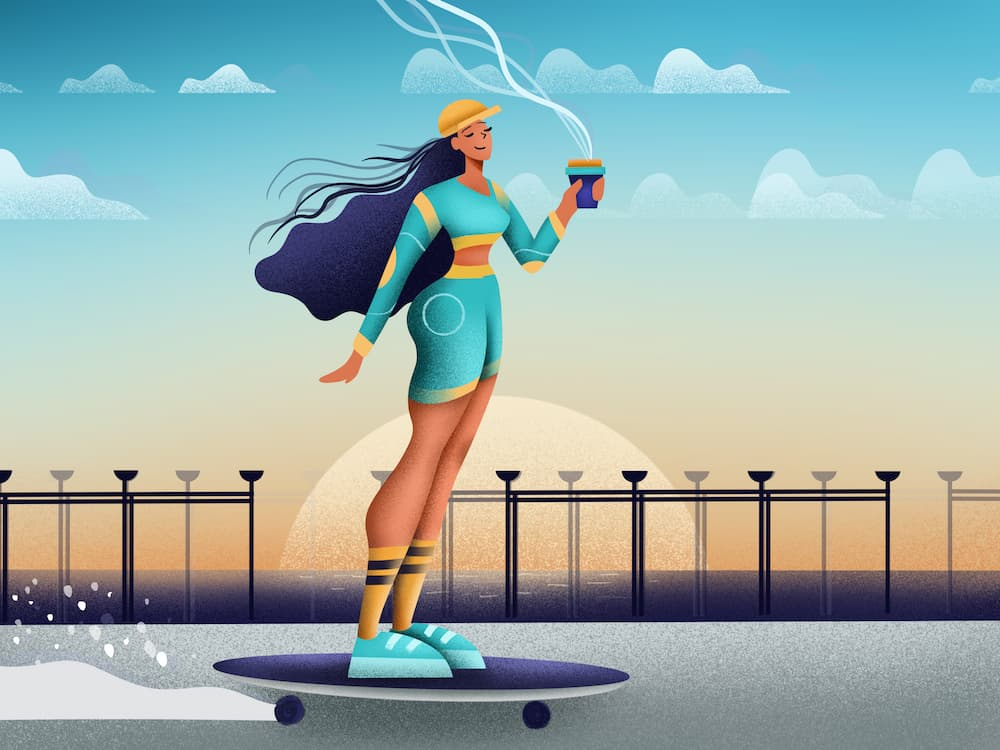
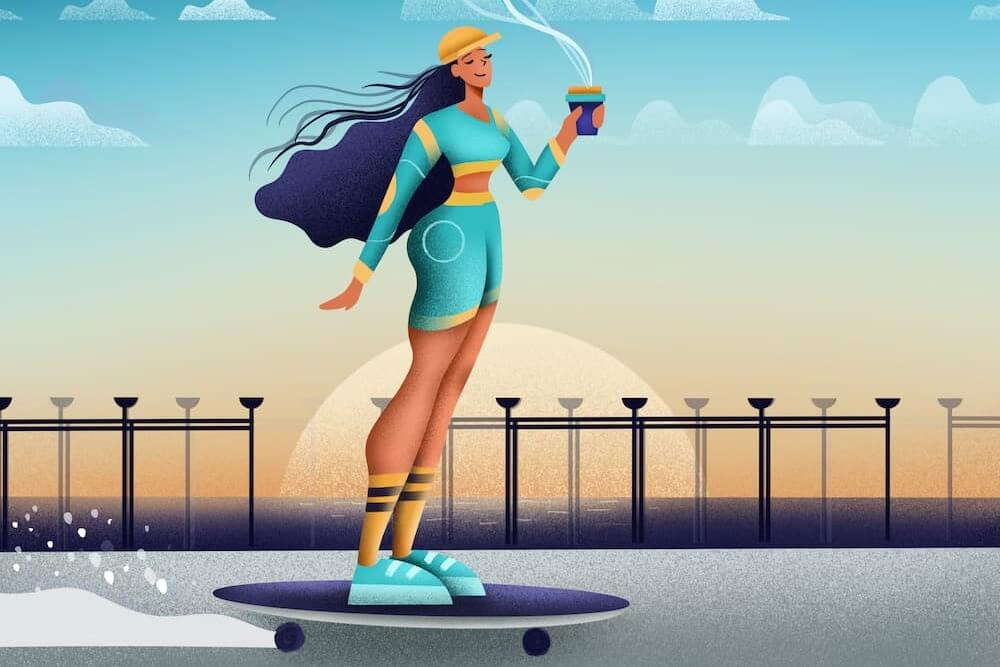
Added - more reasons, meta tags

diff --git a/index.html b/index.html
@@ -3,28 +3,45 @@
 	<head>
 		<meta charset="utf-8">
 		<meta http-equiv="X-UA-Compatible" content="IE=edge">
-		<meta name="viewport" content="width=device-width,initial-scale=1,user-scalable=0">
+		<meta name="viewport" content="width=device-width,initial-scale=1">
 		<link rel="icon" href="favicon.ico">
+		<link rel="icon" type="image/png" sizes="32x32" href="images/favicon-32x32.png">
+		<link rel="icon" type="image/png" sizes="16x16" href="images/favicon-16x16.png">
 		<title>Why Barcelona</title>
+		<meta name="description" content="Reasons to visit or live in Barcelona">
+		<meta property="og:type" content="website">
+		<meta property="og:url" content="https://why.barcelona">
+		<meta property="og:title" content="Why Barcelona">
+		<meta property="og:description" content="Reasons to visit or live in Barcelona">
+		<meta property="og:image" content="https://why.barcelona/images/barcelona.jpg">
+
 		<link rel="stylesheet" href="https://cdn.jsdelivr.net/npm/@layered/layered-design@1.5.6/dist/layered.css" integrity="sha256-NT1Sf9WGtlz9UD0mXpHB58GH3SpmFj9UEg99lTRW4YE=" crossorigin="anonymous">
 
 		<style type="text/css">
 		.reason {
 			border-radius: 1rem;
 			background-size: cover;
-			aspect-ratio: 16 / 9;
+			background-position: center center;
+			aspect-ratio: 3 / 2;
 			padding: 2rem;
 			text-align: center;
 		}
+		.reason.a16x9 {
+			aspect-ratio: 16 / 9;
+		}
 		.reason h3 {
 			color: #333;
-			text-shadow: 0px 0px 5px rgba(255, 255, 255, 0.5);
+			text-shadow: 0px 0px 5px rgba(255, 255, 255, 0.3);
 			margin: 0 !important;
 			font-size: 2rem;
 		}
 		.reason.dark h3 {
 			color: #f0f0f0;
-			text-shadow: 0px 0px 5px rgba(0, 0, 0, 0.5);
+			text-shadow: 0px 0px 5px rgba(0, 0, 0, 0.3);
+		}
+		.reason p {
+			color: #444;
+			font-size: 1.4rem;
 		}
 		.reason a {
 			color: #fff;
@@ -39,30 +56,33 @@
 
 			<div class="text-center py-6">
 				<h1>Why Barcelona</h1>
-				<h2>Reasons to visit or live in Barcelona</h2>
+				<h3>Reasons to visit or live in Barcelona</h3>
 			</div>
 
-			<div class="row">
+			<div class="row mb-6">
 				<div class="col-lg-6 my-3">
-					<div class="reason d-flex justify-content-center align-items-center" style="background-image: url(images/architecture.jpg)">
-						<h3>Spanish architecture</h3>
+					<div class="reason d-flex justify-content-center" style="background-image: url(images/architecture.jpg)">
+						<h3>For the spanish architecture</h3>
 					</div>
 				</div>
 				<div class="col-lg-6 my-3">
-					<div class="reason d-flex justify-content-center align-items-center" style="background-image: url(images/skate.jpg)">
-						<h3>You can skate everywhere</h3>
+					<div class="reason d-flex justify-content-center" style="background-image: url(images/beach.jpg)">
+						<h3>Can go on the beach at least 300 days of the year</h3>
 					</div>
 				</div>
 				<div class="col-12 my-3">
-					<div class="reason d-flex justify-content-center align-items-center" style="background-image: url(images/gaudi.jpg)">
-						<h3>Designed by Gaudi</h3>
-					</div>
+					<a href="https://www.barcelona.com/barcelona_city_guide/gaudi_barcelona" target="_blank" class="reason a16x9 d-flex justify-content-center align-items-center" style="background-image: url(images/gaudi.jpg)">
+						<div>
+							<h3>Designed by Gaudi</h3>
+							<p>Visit Sagrada Familia, Casa Milà, Park Güell ❐</p>
+						</div>
+					</a>
 				</div>
 				<div class="col-lg-6 my-3">
 					<div class="reason dark d-flex justify-content-center align-items-center" style="background-image: url(images/foods.jpg)">
 						<div>
 							<h3>Has restaurants like</h3>
-							<p class="lead">
+							<p>
 								<a href="https://copaseticbarcelona.com/" target="_blank">Copasetic</a>,
 								<a href="https://www.instagram.com/fismuler/" target="_blank">Fismuler</a>,
 								<a href="https://kokukitchen.es/" target="_blank">Koku Kitchen</a>
@@ -71,9 +91,66 @@
 					</div>
 				</div>
 				<div class="col-lg-6 my-3">
-					<div class="reason d-flex justify-content-center align-items-center" style="background-image: url(images/beach.jpg)">
-						<h3>Can go on the beach 300 days of the year</h3>
+					<div class="reason dark d-flex justify-content-center" style="background-image: url(images/cycling.jpg)">
+						<h3>It's the starting poing of many scenic cycling routes</h3>
 					</div>
+				</div>
+				<div class="col-12 my-3">
+					<div class="reason a16x9 d-flex justify-content-center align-items-center" style="background-image: url(images/work.jpg)">
+						<div>
+							<h3>Many popular companies are located in Barcelona:</h3>
+							<p>
+								<a href="https://n26.com/" target="_blank">N26</a>,
+								<a href="https://glovoapp.com/" target="_blank">Glovo</a>,
+								<a href="https://www.skyscanner.es/" target="_blank">SkyScanner</a>
+							</p>
+						</div>
+					</div>
+				</div>
+				<div class="col-lg-6 my-3">
+					<div class="reason d-flex justify-content-center align-items-center" style="background-image: url(images/skate.jpg)">
+						<h3>You can skate anywhere</h3>
+					</div>
+				</div>
+				<div class="col-lg-6 my-3">
+					<div class="reason d-flex justify-content-center align-items-center" style="background-image: url(images/coffee.jpg)">
+						<div>
+							<h3>And have the best coffee at:</h3>
+							<p>
+								<a href="https://nomadcoffee.es/" target="_blank">NOMAD</a>,
+								<a href="https://morrowcoffee.com/" target="_blank">Morrow Coffee</a>,
+								<a href="https://hiddencafebcn.com/" target="_blank">Hidden Coffee</a>
+							</p>
+						</div>
+					</div>
+				</div>
+				<div class="col-lg-6 my-3">
+					<div class="reason dark d-flex justify-content-center align-items-center" style="background-image: url(images/snowboarding.jpg)">
+						<h3>Ski and snowboarding slopes are only 1h away</h3>
+					</div>
+				</div>
+			</div>
+
+			<p class="text-center">Made by</p>
+
+			<div class="row justify-content-center text-center">
+				<div class="col-3 col-lg-2">
+					<a href="https://laye.red" target="_blank">
+						<img src="images/logo-layered.jpg" class="rounded-circle mb-2" width="100" />
+						<p>Layered</p>
+					</a>
+				</div>
+				<div class="col-3 col-lg-2">
+					<a href="https://yogatella.com" target="_blank">
+						<img src="images/yogatella.jpg" class="rounded-circle mb-2" width="100" />
+						<p>Yogatella</p>
+					</a>
+				</div>
+				<div class="col-3 col-lg-2">
+					<a href="https://andrei.net" target="_blank">
+						<img src="images/andrew.jpg" class="rounded-circle mb-2" width="100" />
+						<p>Andrei</p>
+					</a>
 				</div>
 			</div>
 
